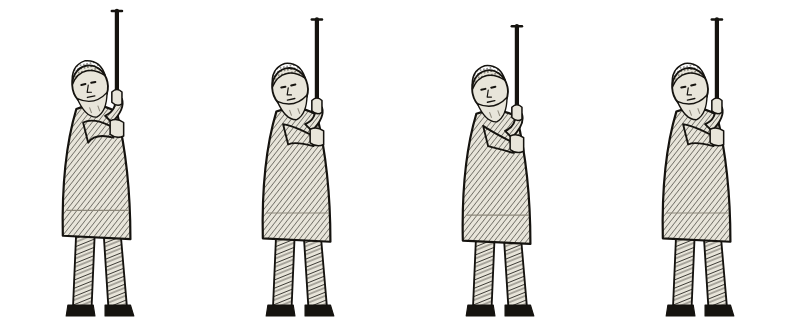
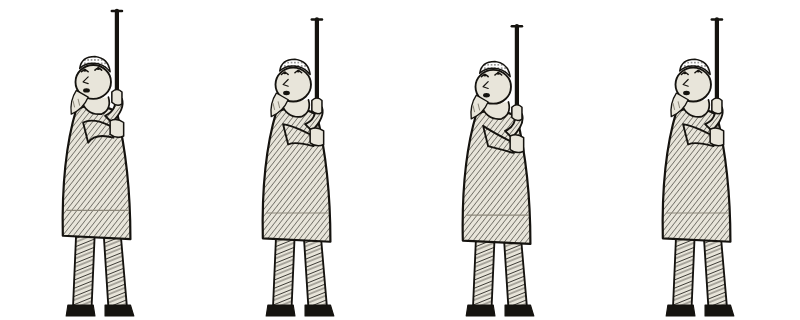
Le sonneur lève la tête vers la baie vide
Claude-Session: https://claude.ai/code/session_011WbKxBfoJbcyebqrVqkEA5

diff --git a/tools/gen_chr_pnj_e3.py b/tools/gen_chr_pnj_e3.py
@@ -211,10 +211,19 @@ def sonneur(i: int) -> str:
         f'<path d="M132 {174 + tire} Q140 {170 + tire} 148 {176 + tire} L148 {192 + tire} Q140 {196 + tire} 132 {190 + tire} Z" fill="{PAPIER}" {ST} stroke-width="1.8"/>'
         f'<path d="M134 {140 + tire} Q140 {134 + tire} 146 {140 + tire} L146 {154 + tire} Q140 {158 + tire} 134 {152 + tire} Z" fill="{PAPIER}" {ST} stroke-width="1.8"/>'
         # tête levée vers le haut, vers rien ; vieux, tondu, barbe blanche
-        f'<g transform="translate(0 {s * .6 + tire * .25:.1f}) rotate(-12 112 150)">'
-        + visage(112, 132, 21, barbe=True) +
-        f'<path d="M92 126 Q94 104 112 102 Q130 104 132 124 Q122 114 112 114 Q100 114 92 126 Z" fill="url(#pt)" {ST} stroke-width="1.8"/>'
-        '</g>'
+        f'<g transform="translate(0 {s * .6 + tire * .25:.1f})">'
+        # tête renversée en arrière, le regard tout en haut, vers la baie vide : on voit le dessous
+        # du menton, la barbe pointe vers l'avant, les yeux sont remontés au ras du front
+        f'<path d="M98 150 Q104 168 122 166 Q134 160 130 146" fill="{PAPIER}" {ST} stroke-width="2"/>'
+        f'<ellipse cx="112" cy="128" rx="21" ry="20" fill="{PAPIER}" {ST} stroke-width="2.2"/>'
+        f'<path d="M92 138 Q84 150 86 166 Q100 160 106 146 Z" fill="{PAPIER}" {ST} stroke-width="1.6"/>'
+        f'<path d="M88 150 L90 158 M94 148 L96 156" stroke="{MINE}" stroke-width="1.2"/>'
+        f'<path d="M98 116 Q102 112 106 116 M114 114 Q118 110 122 114" fill="none" {ST} stroke-width="1.8"/>'
+        f'<circle cx="102" cy="114" r="1.8" fill="{ENCRE}"/><circle cx="118" cy="112" r="1.8" fill="{ENCRE}"/>'
+        f'<path d="M106 122 L100 128 L106 130" fill="none" {ST} stroke-width="1.4"/>'
+        f'<ellipse cx="104" cy="138" rx="4" ry="2.6" fill="{ENCRE}"/>'
+        f'<path d="M96 112 Q98 98 114 98 Q130 100 132 116 Q124 106 112 106 Q102 106 96 112 Z" fill="url(#pt)" {ST} stroke-width="1.8"/>'
+'</g>'
     )
 
 
